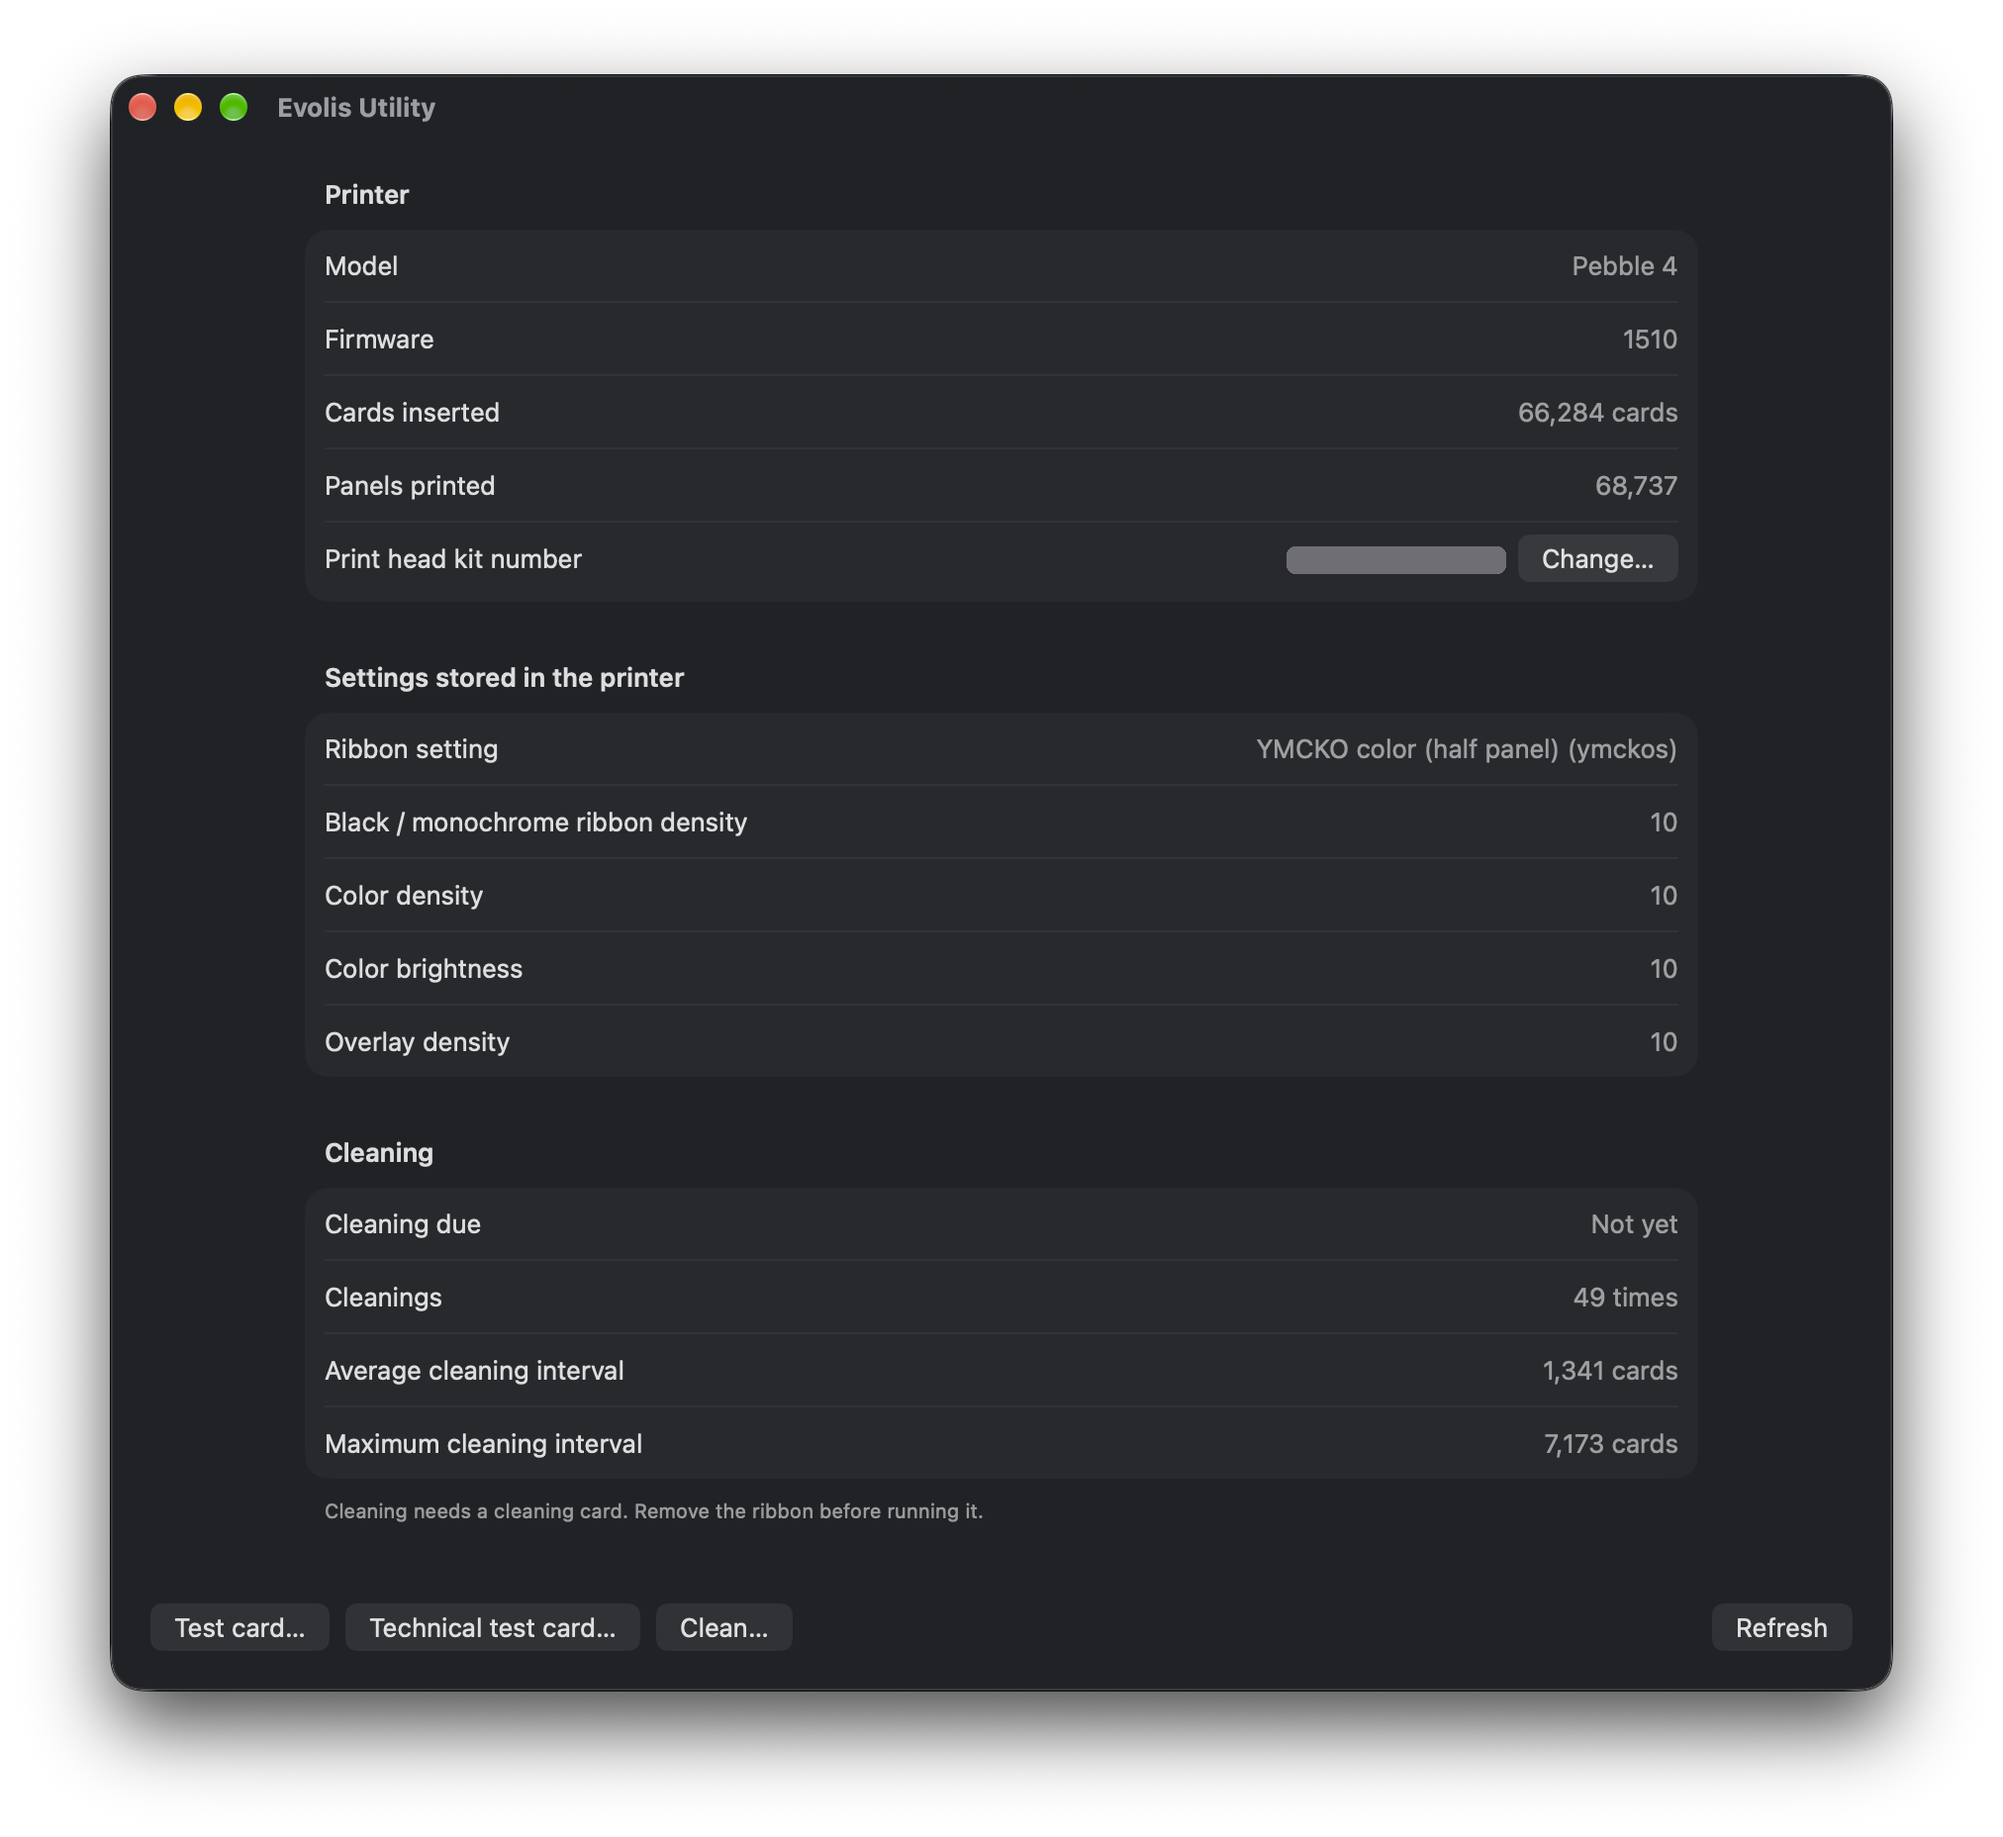
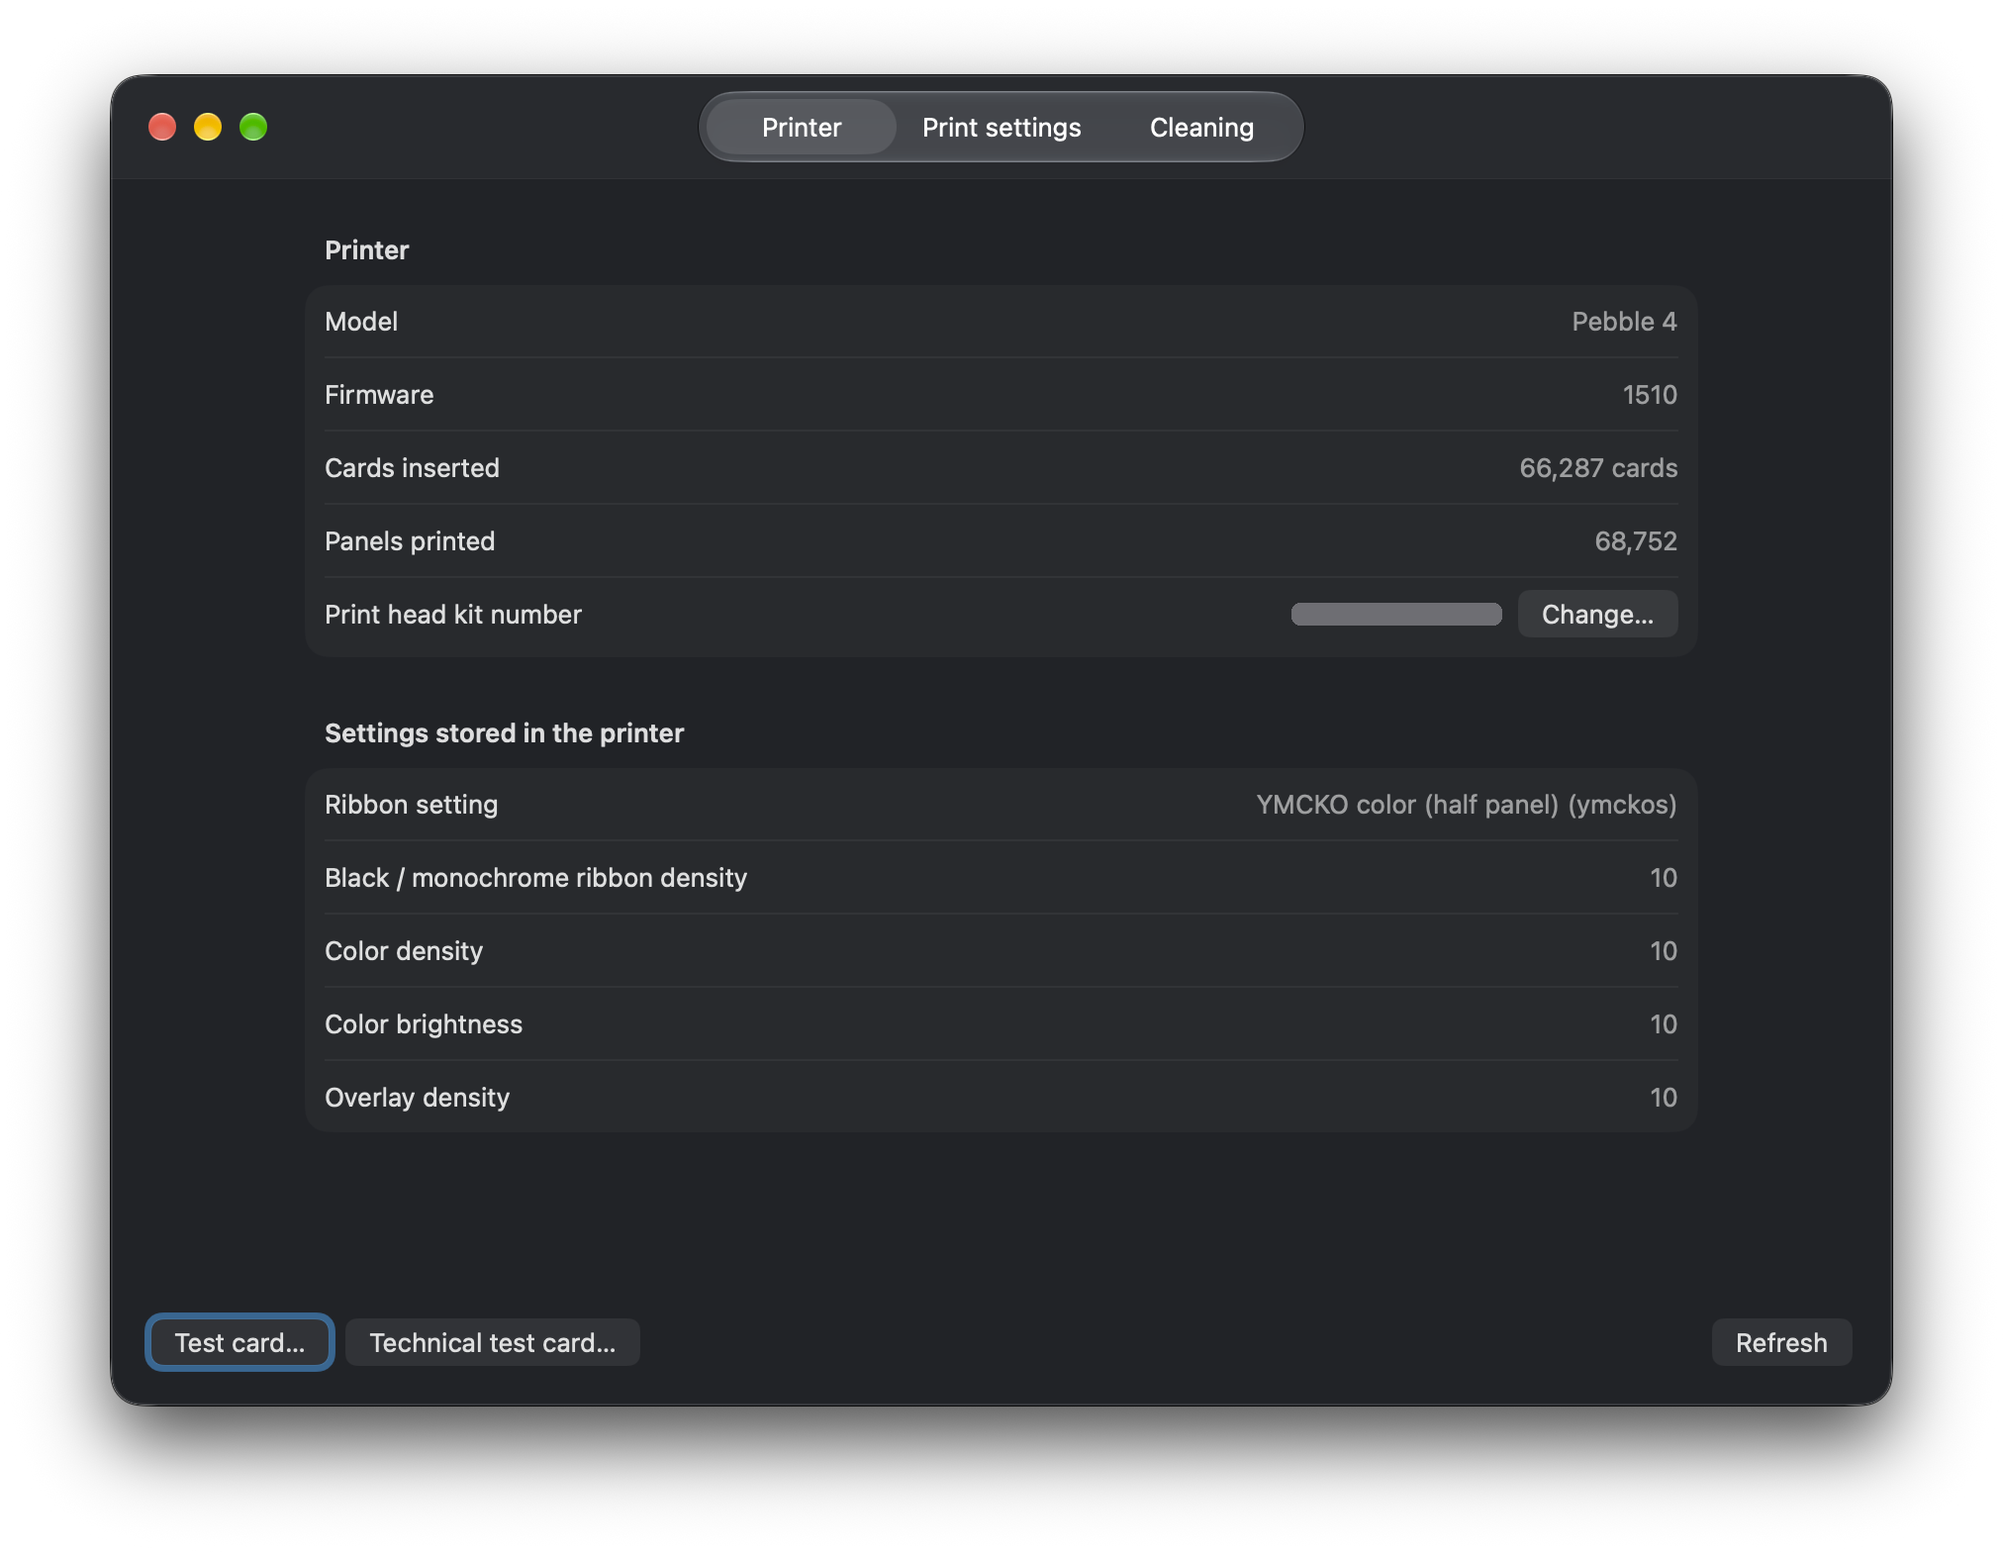
README の画像を v2.0 にする(刷ったカードのスキャンと、Evolis Utility のタブ)
キット番号(ヘッドのシリアル入り)は隠し、画像の情報は消してある

diff --git a/README.en.md b/README.en.md
@@ -15,10 +15,10 @@ not been tested on a printer. The Pebble 4 prints on one side only.
 > **This is an unofficial driver.** It is not affiliated with, endorsed by, or supported by Evolis.
 > Use it at your own risk ([see below](#no-warranty)).
 
-![A sample card printed with v1.1](images/sample-card-color.jpg)
+![A sample card printed with v2.0](images/sample-card-v2.jpg)
 
-*Scan of the sample card ([samples/sample-card.pdf](samples/sample-card.pdf)) printed from the v1.1 print dialog with a
-half-panel YMCKO ribbon (R3013). The left part (about 36 mm) is in color; the right part is printed as a halftone on the black panel.*
+*Scan of the sample card ([samples/sample-card.pdf](samples/sample-card.pdf)) printed with v2.0 (the Printer Application) from Preview's
+print dialog with a half-panel YMCKO ribbon (R3013). The left part (about 36 mm) is in color; the right part is printed as a halftone on the black panel.*
 
 > **From v2.0, the standard setup is a Printer Application.** macOS sees the printer as a driverless printer (IPP Everywhere, the
 > same idea as AirPrint), and the ribbon and densities are set in the Print settings tab of Evolis Utility. CUPS plans to remove
@@ -124,7 +124,7 @@ An app to see the printer's status, change the print settings and call the print
 macOS (27) has no "Open Printer Utility" button in Printers & Scanners ("Options & Supplies" only has General and Supply Levels), so it
 cannot be opened from there.
 
-<img src="images/utility-en.png" alt="Evolis Utility window" width="600">
+<img src="images/utility-en.png" alt="Evolis Utility, Printer tab" width="420"> <img src="images/utility-en-settings.png" alt="Evolis Utility, Print settings tab" width="420">
 
 - **Printer** tab: model, firmware, number of cards inserted, number of panels printed, print head kit number (`Rkn`), and the settings
   stored in the printer (ribbon type, black / color / overlay density, color brightness). Prints a test card or technical test card
